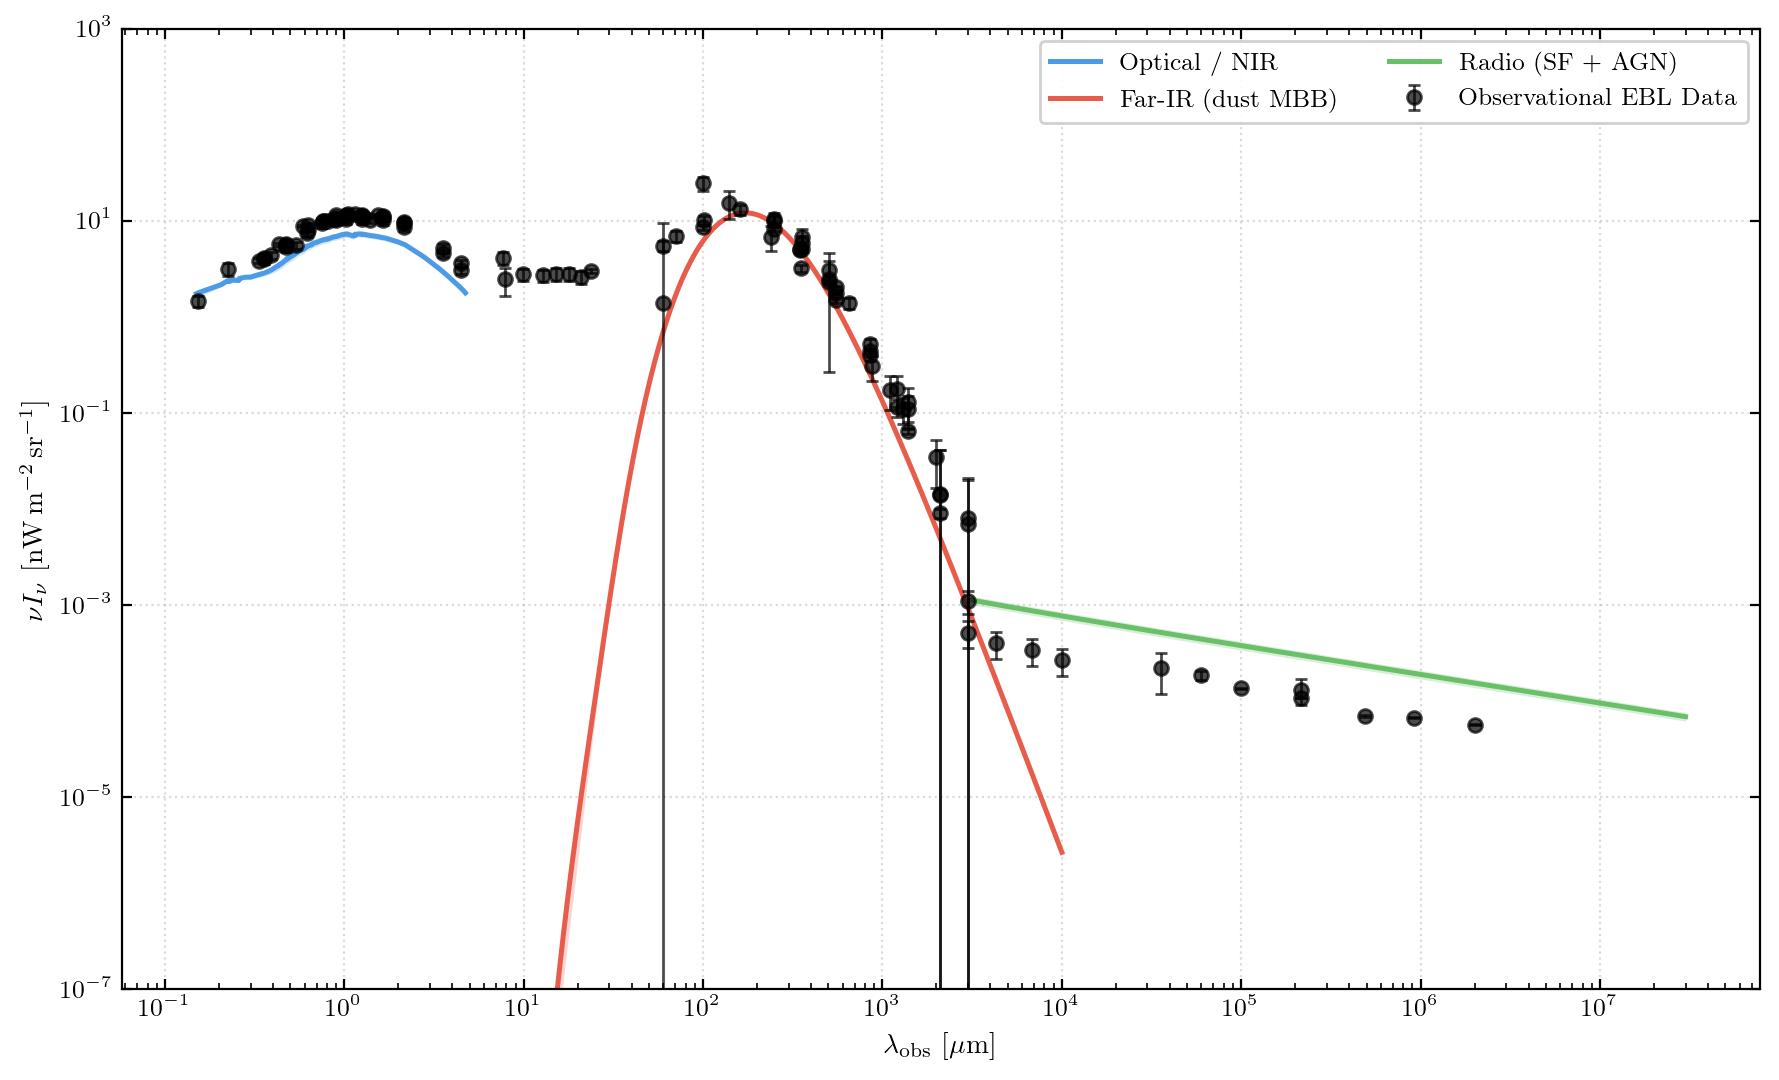
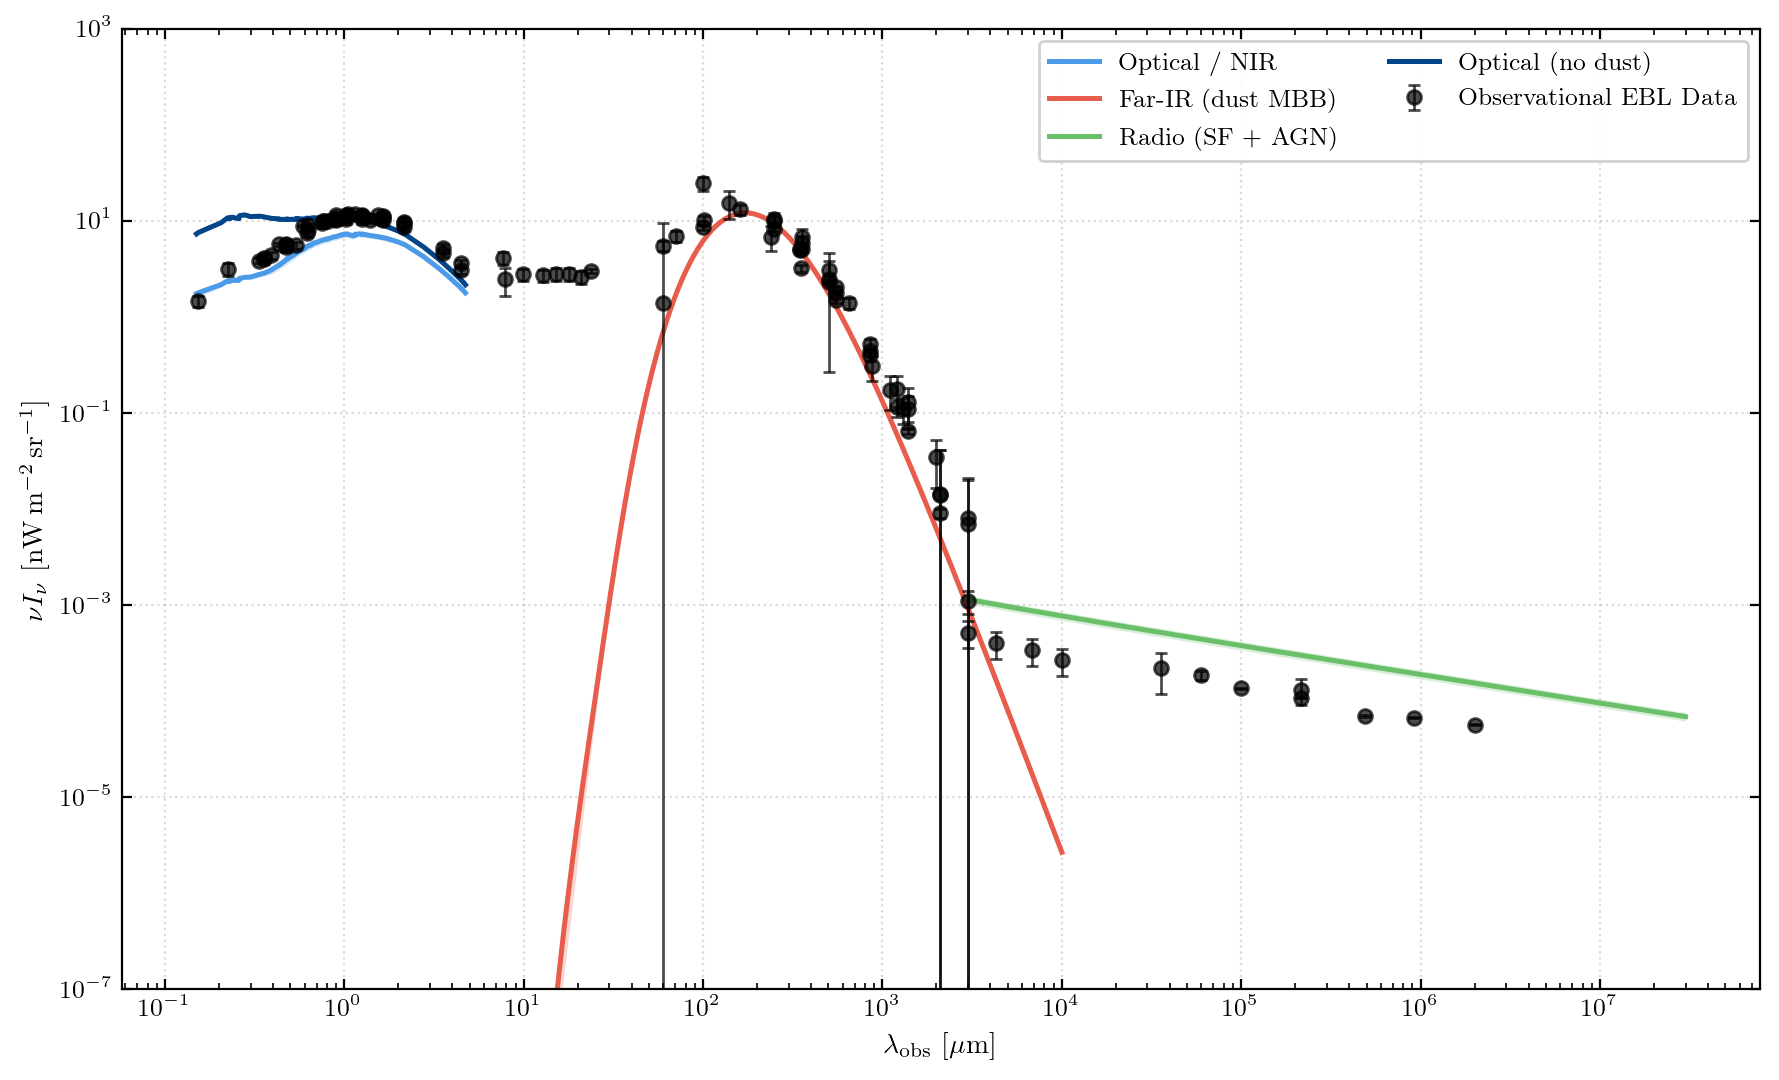
no dust plots

diff --git a/scripts/plot_ebl.py b/scripts/plot_ebl.py
@@ -39,8 +39,6 @@ EBL_PATH = Path("/home/spujni/simba_cosmic_background/data/results/"
 JK_PATH  = Path("/home/spujni/simba_cosmic_background/data/jackknife/"
                 "jackknife_m100n1024_a0.5_z0.0-7.0.h5")
 OBS_PATH = Path("/home/spujni/simba_cosmic_background/data/ebl/ebldata.csv")
-BIN_CACHE = Path("/home/spujni/simba_cosmic_background/data/results/"
-                 "ebl_redshift_bins_m100n1024.h5")
 FIG_DIR   = Path("figures/ebl_final")
 
 # ── Redshift bins ──────────────────────────────────────────────────────────
@@ -105,14 +103,16 @@ def load_ebl(path: Path) -> dict:
     with h5py.File(path, "r") as f:
         opt_lam  = f["optical/lam_AA"][:]  * 1e-4        # → µm
         opt_nW   = f["optical/nuInu_nW"][:]
+        opt_nodust_nW = f["optical/nuInu_nodust_nW"][:]
         fir_lam  = f["farIR/lam_AA"][:]   * 1e-4
         fir_nW   = f["farIR/nuInu_nW"][:]
         rad_lam  = f["radio/lam_um"][:]
         rad_nW   = f["radio/nuInu_nW"][:]
+
     return dict(opt_lam=opt_lam, opt_nW=opt_nW,
                 fir_lam=fir_lam, fir_nW=fir_nW,
-                rad_lam=rad_lam, rad_nW=rad_nW)
-
+                rad_lam=rad_lam, rad_nW=rad_nW,
+                opt_nodust_nW=opt_nodust_nW)
 
 def load_jackknife(path: Path) -> dict:
     """Load jackknife mean and std from HDF5."""
@@ -124,6 +124,9 @@ def load_jackknife(path: Path) -> dict:
                 "mean":   f[f"{key}/mean"][:],
                 "std":    f[f"{key}/std"][:],
             }
+            if key == "optical":
+                data[key]["mean_nodust"] = f[f"{key}/mean_nodust"][:]
+                data[key]["std_nodust"] = f[f"{key}/std_nodust"][:]
     return data
 
 
@@ -143,61 +146,6 @@ def load_observed(path: Path) -> pd.DataFrame:
         df["instrument"] = "Observed"
 
     return df
-
-
-def compute_redshift_bins(cfg, args, a_dust=-0.017341) -> dict:
-    """
-    Compute optical + far-IR + radio backgrounds for each redshift bin.
-    Returns dict keyed by bin label.
-    """
-    results = {}
-    for z_lo, z_hi, label, _ in ZBINS:
-        print(f"\n── Computing bin {label} ──")
-        # Optical
-        lam_o, I_nu_o, _ = lightcone_optical_background(
-            cfg, area_deg2=args.area, z_min=z_lo, z_max=z_hi)
-        valid_o = np.isfinite(lam_o) & (lam_o > 0)
-        lam_o, I_nu_o = lam_o[valid_o], I_nu_o[valid_o]
-        nu_o = (c_light / (lam_o * u.AA)).to_value(u.Hz)
-        nuInu_o = nu_o * I_nu_o * CGS_TO_NW
-
-        # Far-IR
-        lam_f, I_lam_f, _, _ = lightcone_farIR_background(
-            cfg, area_deg2=args.area, z_min=z_lo, z_max=z_hi,
-            a_dust=a_dust, return_dust_temps=True)
-        nuInu_f = lam_f * I_lam_f * CGS_TO_NW
-
-        # Radio
-        nu_r, I_nu_r, _, _ = lightcone_radio_background(
-            cfg, area_deg2=args.area, z_min=z_lo, z_max=z_hi)
-        nuInu_r = nu_r * I_nu_r * CGS_TO_NW
-        lam_r = (c_light / (nu_r * u.Hz)).to_value(u.AA) * 1e-4
-
-        results[label] = dict(
-            opt_lam=lam_o * 1e-4, opt_nW=nuInu_o,
-            fir_lam=lam_f,        fir_nW=nuInu_f,
-            rad_lam=lam_r,        rad_nW=nuInu_r,
-        )
-
-    # Cache to HDF5
-    BIN_CACHE.parent.mkdir(parents=True, exist_ok=True)
-    with h5py.File(BIN_CACHE, "w") as f:
-        for label, d in results.items():
-            grp = f.create_group(label.replace(" ", "_"))
-            for k, v in d.items():
-                grp.create_dataset(k, data=v)
-    print(f"\nRedshift-bin data cached → {BIN_CACHE}")
-    return results
-
-
-def load_bin_cache(path: Path) -> dict:
-    results = {}
-    with h5py.File(path, "r") as f:
-        for grp_name in f:
-            label = grp_name.replace("_", " ")
-            results[label] = {k: f[grp_name][k][:] for k in f[grp_name]}
-    return results
-
 
 # ══════════════════════════════════════════════════════════════════════════
 # Plotting helpers
@@ -283,6 +231,11 @@ def plot_full_ebl(ebl: dict, jk: dict, obs: pd.DataFrame,
                     jk["radio"]["lam_um"], jk["radio"]["mean"],
                     std=jk["radio"]["std"],
                     color="#6ABF69", label="Radio (SF + AGN)")
+    
+    # Optical (no dust)
+    _plot_component(ax, jk["optical"]["lam_um"], jk["optical"]["mean_nodust"],
+                        std=jk["optical"]["std_nodust"],
+                        color="#024588", label="Optical (no dust)")
 
     # ── Observed data ─────────────────────────────────────────────
     _obs_scatter(ax, obs)
@@ -303,7 +256,6 @@ def plot_full_ebl(ebl: dict, jk: dict, obs: pd.DataFrame,
     fig.tight_layout()
     save_dir.mkdir(parents=True, exist_ok=True)
     out = save_dir / "ebl_full_jackknife.pdf"
-    fig.savefig(out, dpi=200, bbox_inches="tight")
     fig.savefig(out.with_suffix(".png"), dpi=200, bbox_inches="tight")
     print(f"Saved → {out}")
     plt.close(fig)
@@ -319,14 +271,14 @@ def plot_redshift_binned_ebl(jk_paths, obs, save_dir):
     Each panel shows optical, far-IR, and radio with jackknife errors, plus observed data.
     """
     bin_labels = [
-        "z = 0.0–1.0",
+        "z = 0.0–1.0", 
         "z = 1.0–3.0",
         "z = 3.0–7.0"
     ]
     bin_colors = [
-        ("#4C9BE8", "#E85C4C", "#6ABF69"),  # optical, farIR, radio
-        ("#4C9BE8", "#E85C4C", "#6ABF69"),
-        ("#4C9BE8", "#E85C4C", "#6ABF69"),
+        ("#4C9BE8", "#024588", "#E85C4C", "#6ABF69"),  # optical, optical no dust, farIR, radio
+        ("#4C9BE8", "#024588", "#E85C4C", "#6ABF69"),
+        ("#4C9BE8", "#024588", "#E85C4C", "#6ABF69"),
     ]
 
     fig, axes = plt.subplots(3, 1, figsize=(9, 13), sharex=True)
@@ -340,16 +292,21 @@ def plot_redshift_binned_ebl(jk_paths, obs, save_dir):
                         jk["optical"]["lam_um"], jk["optical"]["mean"],
                         std=jk["optical"]["std"],
                         color=colors[0], label="Optical / NIR")
+        # Optical (no dust)
+        _plot_component(ax,
+                        jk["optical"]["lam_um"], jk["optical"]["mean_nodust"],
+                        std=jk["optical"]["std_nodust"],
+                        color=colors[1], label="Optical (no dust)")
         # Far-IR
         _plot_component(ax,
                         jk["farIR"]["lam_um"], jk["farIR"]["mean"],
                         std=jk["farIR"]["std"],
-                        color=colors[1], label="Far-IR (dust MBB)")
+                        color=colors[2], label="Far-IR (dust MBB)")
         # Radio
         _plot_component(ax,
                         jk["radio"]["lam_um"], jk["radio"]["mean"],
                         std=jk["radio"]["std"],
-                        color=colors[2], label="Radio (SF + AGN)")
+                        color=colors[3], label="Radio (SF + AGN)")
         # Observed
         _obs_scatter(ax, obs)
         ax.set_xscale("log")
@@ -364,7 +321,6 @@ def plot_redshift_binned_ebl(jk_paths, obs, save_dir):
     fig.tight_layout()
     save_dir.mkdir(parents=True, exist_ok=True)
     out = save_dir / "ebl_jackknife_bins.pdf"
-    fig.savefig(out, dpi=200, bbox_inches="tight")
     fig.savefig(out.with_suffix(".png"), dpi=200, bbox_inches="tight")
     print(f"Saved → {out}")
     plt.close(fig)
@@ -470,25 +426,12 @@ def main():
 
     # ── Figure 2 ──────────────────────────────────────────────────
     print("\n── Figure 2: EBL by redshift bin ──")
-    if args.compute_bins:
-        cfg = load_config(args.sim)
-        bins = compute_redshift_bins(cfg, args, a_dust=args.a_dust)
-    elif BIN_CACHE.exists():
-        print(f"Loading cached bin data from {BIN_CACHE} …")
-        bins = load_bin_cache(BIN_CACHE)
-    else:
-        print("No cached bin data found. Run with --compute_bins to generate it.")
-        return
-
     jk_bin_paths = [
         Path("data/jackknife/jackknife_m100n1024_a0.5_z0.0-1.0.h5"),
         Path("data/jackknife/jackknife_m100n1024_a0.5_z1.0-3.0.h5"),
         Path("data/jackknife/jackknife_m100n1024_a0.5_z3.0-7.0.h5"),
     ]
     plot_redshift_binned_ebl(jk_bin_paths, obs, FIG_DIR)
-
-    print("\n── Figure 3: EBL by redshift bin (Single axis) ──")
-    plot_redshift_binned_single_ax(jk_bin_paths, obs, FIG_DIR)
 
     print("\nDone.")
 

diff --git a/scripts/run_jackknife.py b/scripts/run_jackknife.py
@@ -127,6 +127,7 @@ def run_jackknife(cfg, args, n_regions_per_side=4, a_dust=-0.017341):
 
     # Storage for jackknife samples
     optical_samples = []
+    optical_samples_nodust = []
     farIR_samples = []
     radio_samples = []
 
@@ -146,7 +147,7 @@ def run_jackknife(cfg, args, n_regions_per_side=4, a_dust=-0.017341):
 
         # Optical/NIR
         print("  Computing optical/NIR background...")
-        lam, I_nu, _ = lightcone_optical_background(
+        lam, I_nu, I_nu_nodust = lightcone_optical_background(
             cfg, area_deg2=args.area, z_min=args.z_min, z_max=args.z_max,
             galaxy_mask=jackknife_mask
         )
@@ -154,13 +155,16 @@ def run_jackknife(cfg, args, n_regions_per_side=4, a_dust=-0.017341):
         valid = np.isfinite(lam) & np.isfinite(I_nu) & (lam > 0)
         lam   = lam[valid]
         I_nu  = I_nu[valid]
+        I_nu_nodust = I_nu_nodust[valid]
 
         if lam_opt is None:
             lam_opt = lam
         nu_opt = (c_light / (lam * u.AA)).to_value(u.Hz)
         nuInu = nu_opt * I_nu * 1e6  # nW m^-2 sr^-1
+        nuInu_nodust = nu_opt * I_nu_nodust * 1e6  # nW m^-2 sr^-1
 
         optical_samples.append(nuInu)
+        optical_samples_nodust.append(nuInu_nodust)
 
         # Far-IR
         print("  Computing far-IR background...")
@@ -186,6 +190,7 @@ def run_jackknife(cfg, args, n_regions_per_side=4, a_dust=-0.017341):
 
     # Convert to arrays
     optical_samples = np.array(optical_samples)
+    optical_samples_nodust = np.array(optical_samples_nodust)
     farIR_samples = np.array(farIR_samples)
     radio_samples = np.array(radio_samples)
 
@@ -193,6 +198,7 @@ def run_jackknife(cfg, args, n_regions_per_side=4, a_dust=-0.017341):
     print("\n=== Computing jackknife statistics ===")
 
     opt_mean, opt_var, opt_std = jackknife_variance(optical_samples)
+    opt_nodust_mean, opt_nodust_var, opt_nodust_std = jackknife_variance(optical_samples_nodust)
     fir_mean, fir_var, fir_std = jackknife_variance(farIR_samples)
     radio_mean, radio_var, radio_std = jackknife_variance(radio_samples)
 
@@ -207,6 +213,9 @@ def run_jackknife(cfg, args, n_regions_per_side=4, a_dust=-0.017341):
             "mean": opt_mean,
             "std": opt_std,
             "samples": optical_samples,
+            "mean_nodust": opt_nodust_mean,
+            "std_nodust": opt_nodust_std,
+            "samples_nodust": optical_samples_nodust,
         },
         "farIR": {
             "lam_um": lam_fir_um,
@@ -247,6 +256,10 @@ def save_results(cfg, args, results):
             grp.create_dataset("mean", data=results[band]["mean"])
             grp.create_dataset("std", data=results[band]["std"])
             grp.create_dataset("samples", data=results[band]["samples"])
+            if band == "optical":
+                grp.create_dataset("mean_nodust", data=results[band]["mean_nodust"])
+                grp.create_dataset("std_nodust", data=results[band]["std_nodust"])
+                grp.create_dataset("samples_nodust", data=results[band]["samples_nodust"])
 
     print(f"\nSaved results → {out_file}")
     return out_file
@@ -277,6 +290,21 @@ def print_summary(results):
             print(f"  νIν = {peak_val:.4f} ± {peak_err:.4f} nW m⁻² sr⁻¹")
             print(f"  Relative error: {rel_err:.1f}%")
 
+        if band == "optical":
+            mean_nodust = data["mean_nodust"]
+            std_nodust = data["std_nodust"]
+            valid_nodust = mean_nodust > 0
+            if valid_nodust.any():
+                peak_idx = np.argmax(mean_nodust[valid_nodust])
+                peak_lam = data["lam_um"][valid_nodust][peak_idx]
+                peak_val = mean_nodust[valid_nodust][peak_idx]
+                peak_err = std_nodust[valid_nodust][peak_idx]
+                rel_err = 100 * peak_err / peak_val if peak_val > 0 else 0
+
+                print(f"  (no dust) Peak at λ = {peak_lam:.2f} µm")
+                print(f"    νIν = {peak_val:.4f} ± {peak_err:.4f} nW m⁻² sr⁻¹")
+                print(f"    Relative error: {rel_err:.1f}%")
+
     print("\n" + "=" * 60)
 
 
@@ -295,13 +323,10 @@ def main():
     cfg = load_config(args.sim)
     print(f"Running jackknife on {cfg.name} (box={cfg.box_size_mpc_h} Mpc/h)")
 
-    # Run jackknife
     results = run_jackknife(cfg, args, n_regions_per_side=args.n_regions)
 
-    # Save results
     save_results(cfg, args, results)
 
-    # Print summary
     print_summary(results)
 
 if __name__ == "__main__":
